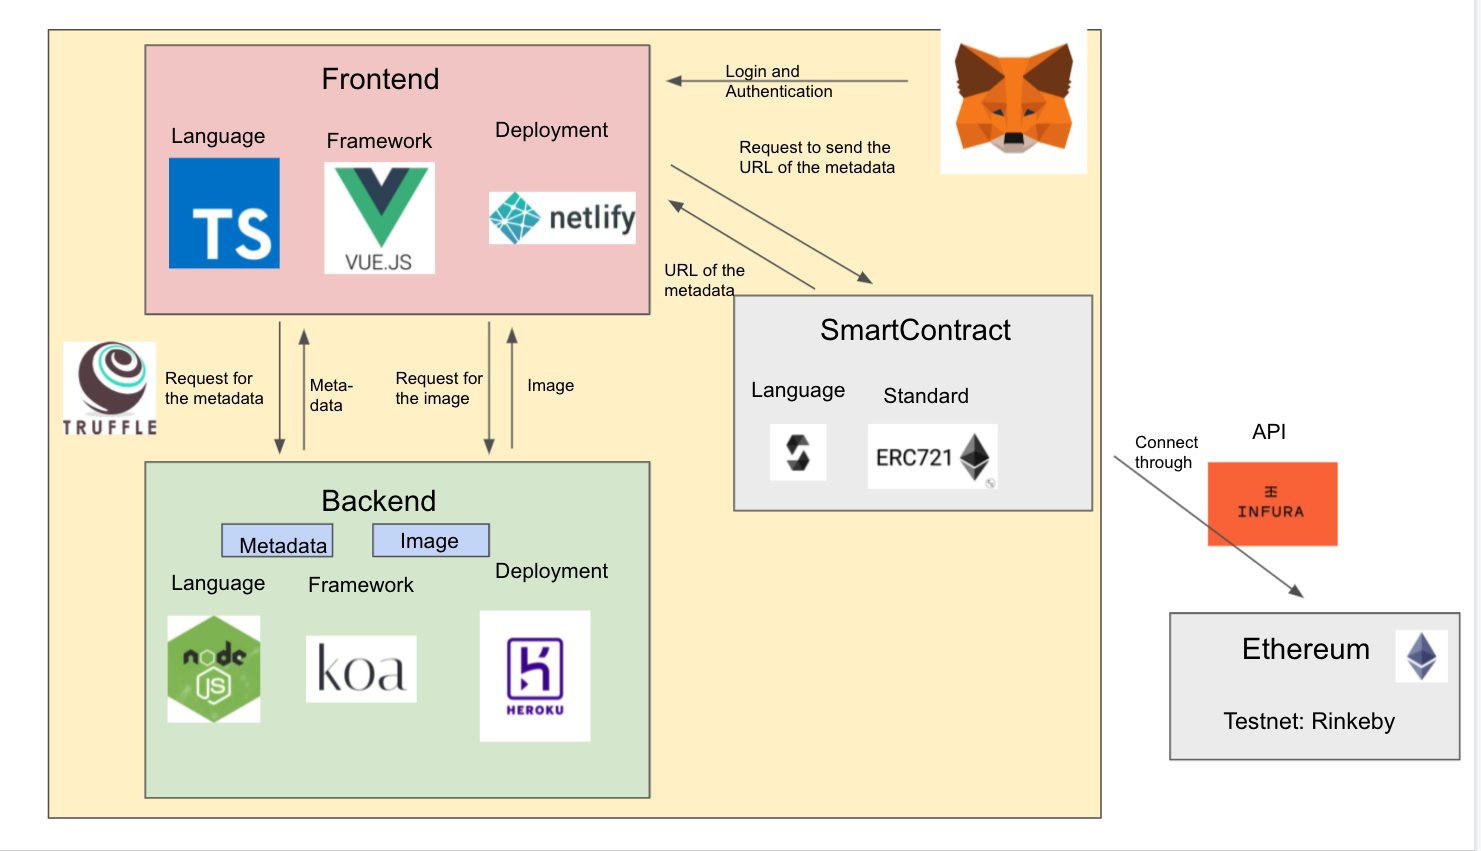
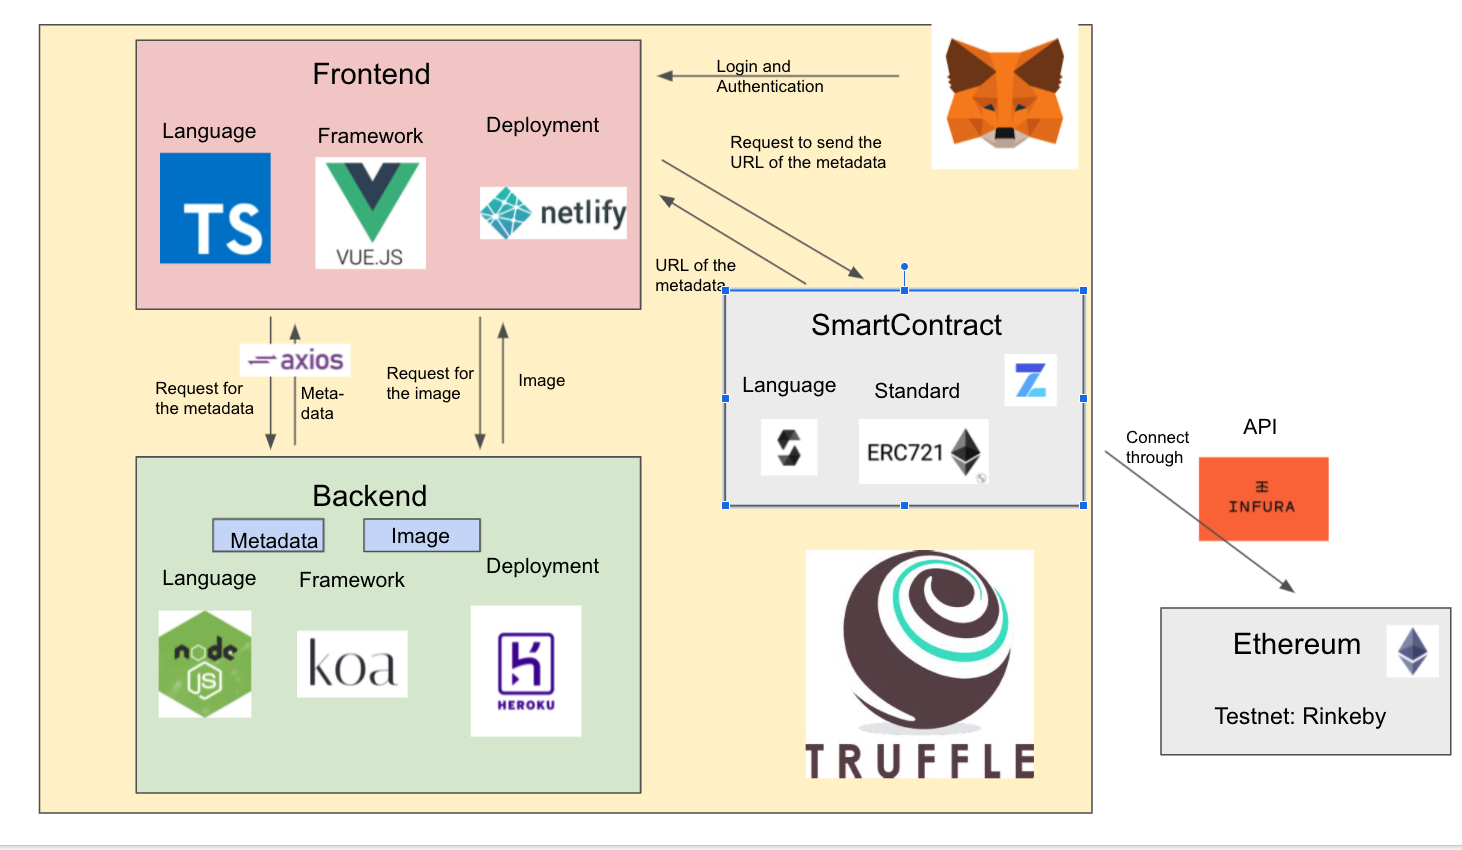
Update image and correct spelling mistakes

diff --git a/technology.md b/technology.md
@@ -2,16 +2,16 @@
 
 ![architecture](./assets/architecture.png "architecture")
 
-Frontend is our WebApp. Form here we send a request to the smartcontract to get the url of the metadata as the metadata is to big. 
-Then we send this URL to the Backend to get the metadata of the Token. This is saved in a json file. In this metadata we also have the url of the image of the NFT stored. That we want to store on the same Server as ou Metadata. But could also be a different server.
+The Frontend is our WebApp. Here we log in with our MetaMask Wallet. Form here we send a request to the smartContract to get the url of the metadata of the NFT as the metadata is to big to be stored in the SmartContract. 
+Then we send this URL to the Backend to get the metadata of the Token. This is saved in a json file. In this metadata we also have the url of the image of the NFT stored. That we want to store on the same Server as ou Metadata. 
 
 
-Backend: serve meta data and the image
+Backend: serves metadata and the images
 
 1. create a [truffel](https://www.trufflesuite.com/truffle) Project - most popular development framework for Ethereum
 
 2. most data lies in the `server.js` and the `router.js` file.
-3. We use node.js and [Koa](https://koajs.com) as a framework. - Koa is a new web framework designed by the team behind Express, which aims to be a smaller, more expressive, and more robust foundation for web applications and APIs. By leveraging async functions, Koa allows you to ditch callbacks and greatly increase error-handling. Koa does not bundle any middleware within its core, and it provides an elegant suite of methods that make writing servers fast and enjoyable.
+3. We use node.js and [Koa](https://koajs.com) as a framework. 
 
 4. Tokens are in the `tokens.json` file
 
@@ -33,7 +33,7 @@ Backend: serve meta data and the image
 SmartContract:
 
 1. Standard ERC721
-2. Library [`@openzeppelin`](https://openzeppelin.com)
+2. Library for SmartContracts for NFTs [`@openzeppelin`](https://openzeppelin.com)
 3. deploy on `Rinkeby Testnet` 
    - import `hdwallet-provider`
    - add a mnemonic - the twelve word phrase the wallet uses to generate public/private key pairs (MUST be in `.gitignore` file, so it doesn't become public)
@@ -43,4 +43,4 @@ SmartContract:
 Frontend:
 1. import `axios` library to send requests to the backend
 2. connect to Metamask
-3. host FE on [Netflifly](https://app.netlify.com/drop)
+3. host FE on [Netlifly](https://app.netlify.com/drop)
